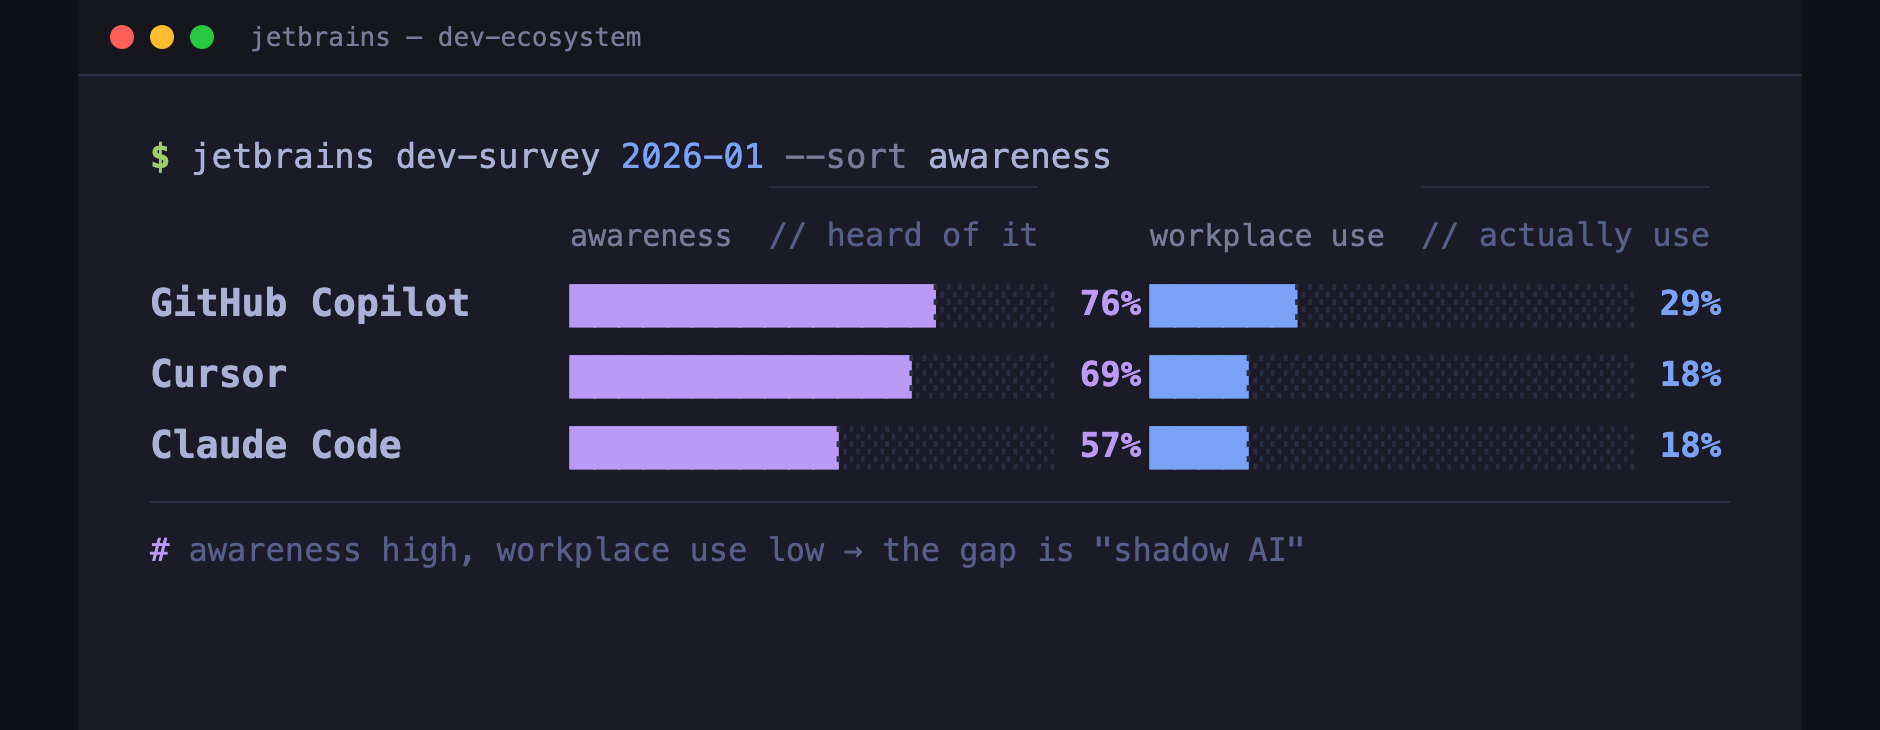
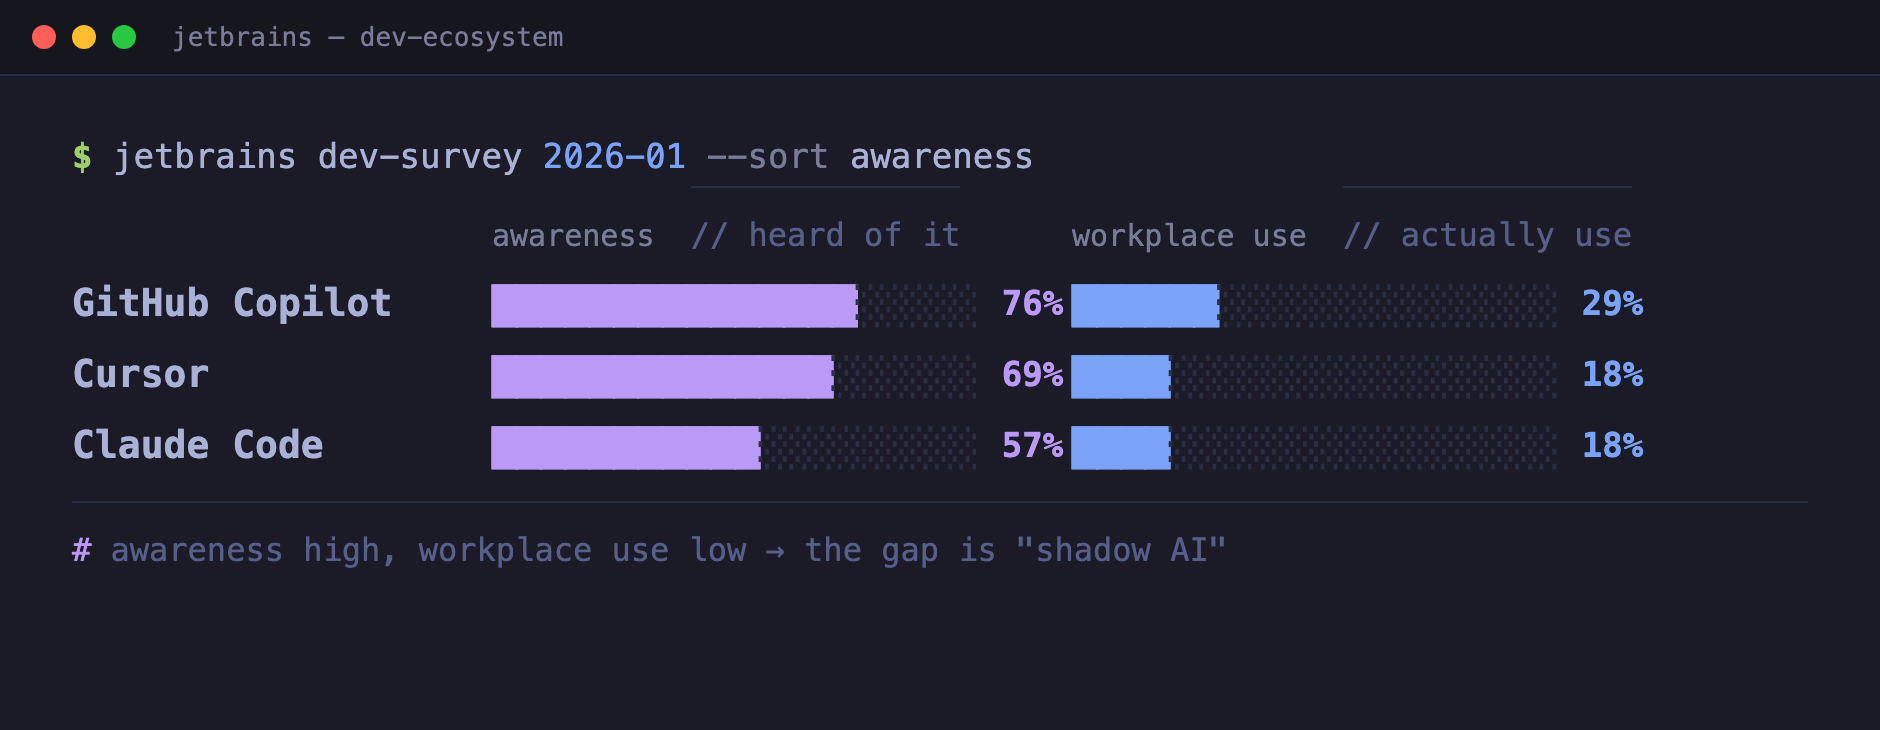
fix: Terminal chart card now fills full PNG width
.win was a flex item shrinking to content width, leaving the (near-black)
page bg as side margins on content-narrow charts (tools/divergence). Set
.win width:100% + page bg = Tokyo navy so cards fill edge-to-edge.

diff --git a/scripts/blog-figures/term.css b/scripts/blog-figures/term.css
@@ -1,7 +1,7 @@
 *{margin:0;padding:0;box-sizing:border-box}
 :root{--bg:#1a1b26;--panel:#16161e;--line:#2a2e42;--tx:#a9b1d6;--dim:#787c99;--cmt:#565f89;--empty:#292e42;--grn:#9ece6a;--blu:#7aa2f7;--org:#ff9e64;--prpl:#bb9af7}
 html,body{font-family:ui-monospace,"SF Mono","Menlo","Roboto Mono",monospace;-webkit-print-color-adjust:exact;print-color-adjust:exact}
-.win{background:var(--bg);border:0;border-radius:0;overflow:hidden;height:100%}
+.win{background:var(--bg);border:0;border-radius:0;overflow:hidden;height:100%;width:100%}
 .bar{display:flex;align-items:center;gap:8px;padding:11px 16px;background:var(--panel);border-bottom:1px solid var(--line)}
 .dot{width:12px;height:12px;border-radius:50%}
 .dr{background:#ff5f56}.dy{background:#febc2e}.dg{background:#28c840}

diff --git a/scripts/blog-figures/t-hero.html b/scripts/blog-figures/t-hero.html
@@ -1,7 +1,7 @@
 <!doctype html><html lang="ko"><head><meta charset="utf-8">
 <link rel="stylesheet" href="term.css">
 <style>
-  .page{width:860px;height:345px;background:#0d1117;display:flex;align-items:center;justify-content:center;padding:0}
+  .page{width:860px;height:345px;background:#1a1b26;display:flex;align-items:center;justify-content:center;padding:0}
   .body{padding:34px 40px}
   .title{margin:6px 0 26px;font-size:38px;font-weight:800;letter-spacing:-.02em;color:#c0caf5}
   .title .en{color:var(--blu)}

diff --git a/scripts/blog-figures/t-tools.html b/scripts/blog-figures/t-tools.html
@@ -1,7 +1,7 @@
 <!doctype html><html lang="en"><head><meta charset="utf-8">
 <link rel="stylesheet" href="term.css">
 <style>
-  .page{width:940px;height:365px;background:#0d1117;display:flex;align-items:center;justify-content:center;padding:0}
+  .page{width:940px;height:365px;background:#1a1b26;display:flex;align-items:center;justify-content:center;padding:0}
   .body{padding:30px 36px}
   .cmd{font-size:17px;margin-bottom:20px}
   .head{display:flex;gap:0;font-size:15px;color:var(--dim);margin:0 0 12px}

diff --git a/scripts/blog-figures/t-divergence.html b/scripts/blog-figures/t-divergence.html
@@ -1,7 +1,7 @@
 <!doctype html><html lang="en"><head><meta charset="utf-8">
 <link rel="stylesheet" href="term.css">
 <style>
-  .page{width:980px;height:410px;background:#0d1117;display:flex;align-items:center;justify-content:center;padding:0}
+  .page{width:980px;height:410px;background:#1a1b26;display:flex;align-items:center;justify-content:center;padding:0}
   .body{padding:30px 36px}
   .cmd{font-size:17px;margin-bottom:22px}
   .grp{margin:0 0 22px}
